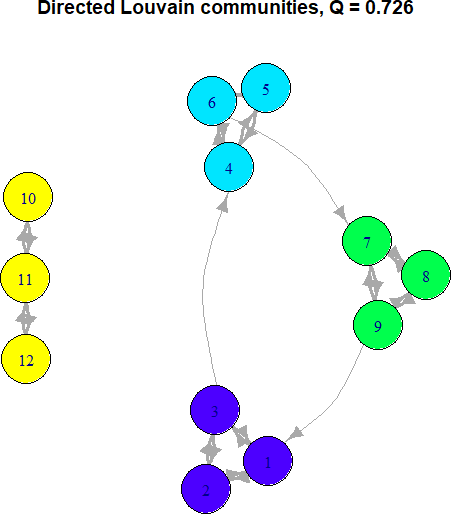
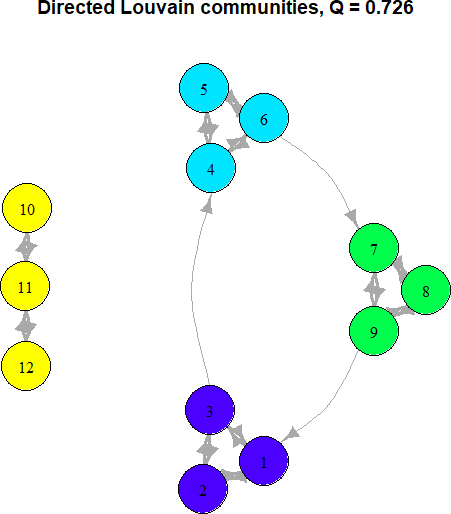
Update Figure

diff --git a/README.md b/README.md
@@ -89,7 +89,7 @@ plot(g,
      edge.width = E(g)$weight * 3,
      edge.curved = rep(0.3, ecount(g)),
      vertex.size = 25,
-     #vertex.label.color = "black",
+     vertex.label.color = "black",
      vertex.label.cex = 1,
      main = paste("Directed Louvain communities, Q =", round(Q,3))
 )
